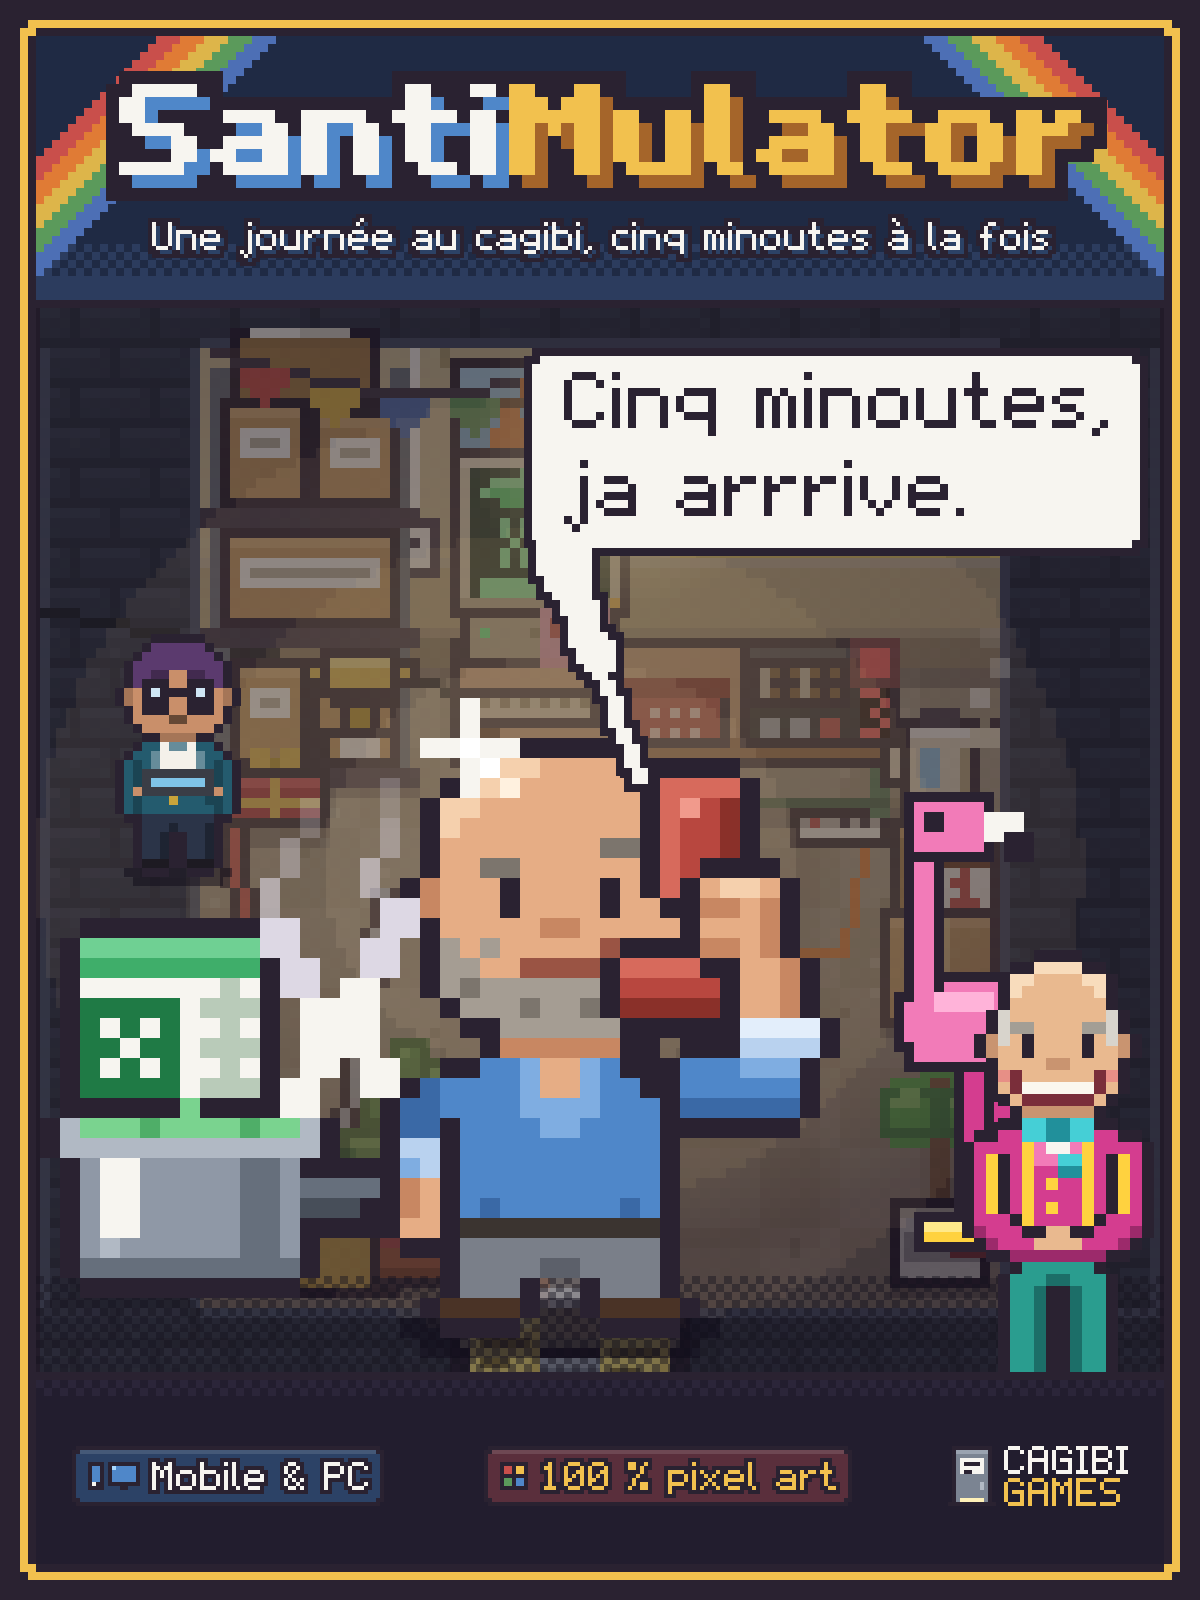
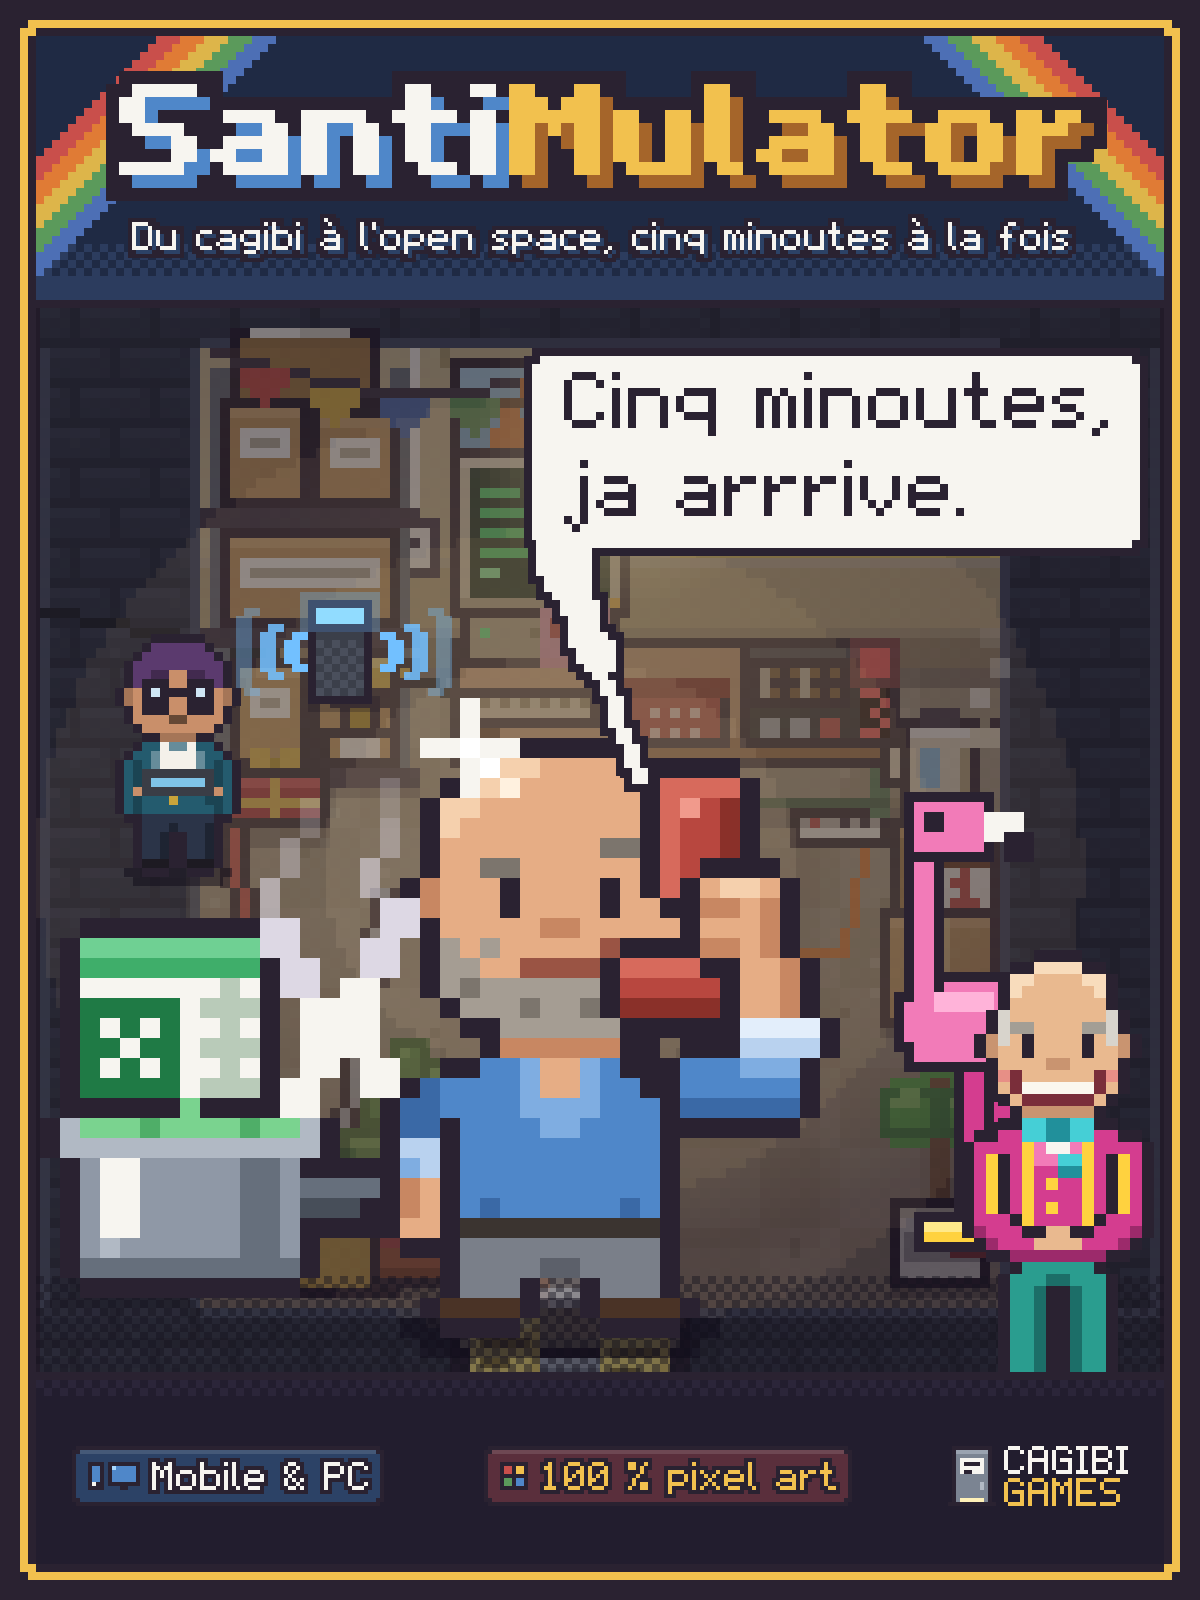
Publication du jeu (5cf1f73)

Changed region(s): [[0.0925, 0.125, 0.8942, 0.1875], [0.185, 0.3438, 0.4008, 0.4688], [0.4008, 0.2812, 0.4625, 0.375]]

diff --git a/sw.js b/sw.js
@@ -15,7 +15,7 @@
  *    préchauffé à l'installation pour qu'un premier lancement hors ligne
  *    garde la bonne typographie.
  */
-const VERSION = 'bdf6b74e05fe';
+const VERSION = 'bcf6e021aa5c';
 const PRECACHE_URLS = [
   "./assets/autoscene-CthaICs6.js",
   "./assets/index-EjDv9MAR.js",
@@ -27,6 +27,7 @@ const PRECACHE_URLS = [
   "./icons/icon-512.png",
   "./icons/icon-maskable-512.png",
   "./index.html",
+  "./jaquette-dos.png",
   "./jaquette.png",
   "./manifest.webmanifest"
 ];

diff --git a/README.md b/README.md
@@ -2,7 +2,7 @@
 
 > « Ah, juste cinq minutes, j’arrive. »
 
-![Jaquette de SantiMulator](jaquette.png)
+<p><img src="jaquette.png" alt="Jaquette de SantiMulator, face avant" width="45%"> <img src="jaquette-dos.png" alt="Jaquette de SantiMulator, dos" width="45%"></p>
 
 Une journée dans la peau de Santi, informaticien. Le téléphone sonne, les mails s’empilent, et Santi n’a qu’une réponse : cinq minutes.
 
